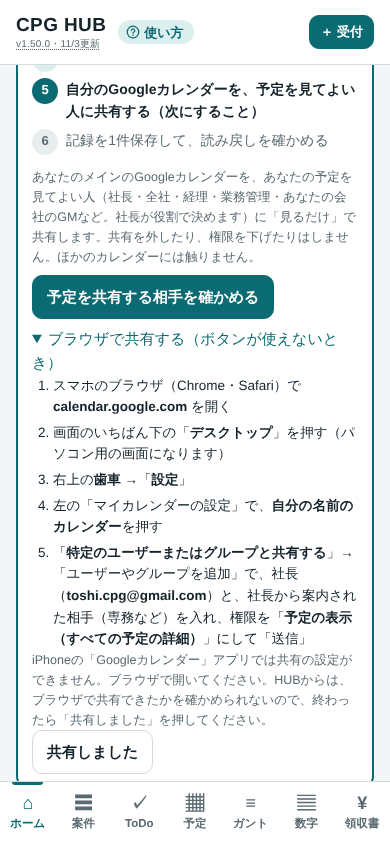
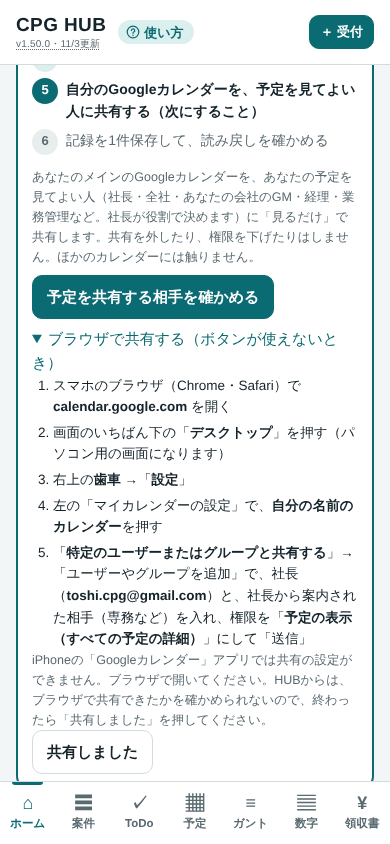
Limit the accounting and operations roles to their own companies and keep receipts out of the operations view
Claude-Session: https://claude.ai/code/session_017ZjmPTZswQcPFukXWs9n4w

Changed region(s): [[0.2769, 0.2156, 0.9231, 0.2773], [0.0923, 0.2464, 0.2462, 0.2773]]

diff --git a/index.html b/index.html
@@ -643,7 +643,7 @@ function corpKeepLoad(){
   try{const k=JSON.parse(localStorage.getItem(CKEEP)||"null");
     if(k)ui.receiptCacheState=k.who!==corpWho()?"account":Date.now()-k.at>CKEEP_DAYS*864e5?"expired":"invalid";
     if(!k||!Array.isArray(k.data)||k.who!==corpWho()||Date.now()-k.at>CKEEP_DAYS*864e5){if(k)corpKeepClear();return}
-    ui.receiptCacheState="loaded";if(!D().admin&&k.viewList)ui.viewList=k.viewList;const me=!D().admin&&(ui.viewList||[]).find(v=>eq(v.email,D().viewEmail));const data=D().admin?k.data:k.data.filter(x=>me&&x.s&&canSee(me,x.s));ui.corp={data,at:k.at,kept:true};roBuild(data)}catch(err){ui.receiptCacheState="invalid";}
+    ui.receiptCacheState="loaded";if(!D().admin&&k.viewList)ui.viewList=k.viewList;const me=!D().admin&&(ui.viewList||[]).find(v=>eq(v.email,D().viewEmail));const data=D().admin?k.data:k.data.filter(x=>me&&x.s&&canSee(me,x.s)).map(x=>noReceipts(me)?{...x,rc:[],receiptPrevious:null,receiptRead:{state:"hidden"}}:x);ui.corp={data,at:k.at,kept:true};roBuild(data)}catch(err){ui.receiptCacheState="invalid";}
 }
 const corpErr=err=>err.message==="notviewer"?"全社・GM・経理・業務管理の役割ではなくなっています。前回の内容は消しました":!D().admin&&(err.status===403||err.status===404)?"見る人用一覧を開けません（役割や共有が外れた可能性があります）。前回の内容は消しました":dMsg(err);
 const corpAtText=()=>md(ymd(new Date(ui.corp.at)))+' '+hm(new Date(ui.corp.at));
@@ -2802,7 +2802,7 @@ async function dataConnect(input){
   ui.sgDone="";try{const g=await sharedCheck(id);ui.sheetGuard=g.block?g:null}catch(err){ui.sheetGuard=null}
 }
 /* 社長の端末：社員ごとのシートを作って、その社員に「編集者」で共有する */
-const STAFF_COLS=["氏名","Gmail","シートID","シートのリンク","状態","追加日","最終同期","共有ID","会社","役割","GMの会社","指示箱ID"];
+const STAFF_COLS=["氏名","Gmail","シートID","シートのリンク","状態","追加日","最終同期","共有ID","会社","役割","GMの会社","指示箱ID","担当の会社"];
 /* a new spreadsheet's first tab is renamed (its default name depends on the account's language), then more tabs are added */
 async function sheetTabs(id,first,more){
   const v=await gReq(SHEETS+"/"+encodeURIComponent(id)+"?fields=sheets.properties");
@@ -2810,7 +2810,7 @@ async function sheetTabs(id,first,more){
 }
 async function adminWriteList(){
   if(!D().listId){const f=await driveCreate({name:"CPG HUB_社員一覧",mimeType:"application/vnd.google-apps.spreadsheet",parents:[D().folder]});await sheetTabs(f.id,"社員",[]);D().listId=f.id;save()}
-  return sheetWrite(D().listId,"社員",[STAFF_COLS,...D().staff.map(s=>[s.registeredName||s.name,s.email,s.sheetId,"https://docs.google.com/spreadsheets/d/"+s.sheetId+"/edit",s.removed?"共有を外した":"共有中",s.addedAt,s.lastSync||"",s.permId||"",s.company||"",s.role||"社員",s.gmCo||"",s.boxId||""])]);
+  return sheetWrite(D().listId,"社員",[STAFF_COLS,...D().staff.map(s=>[s.registeredName||s.name,s.email,s.sheetId,"https://docs.google.com/spreadsheets/d/"+s.sheetId+"/edit",s.removed?"共有を外した":"共有中",s.addedAt,s.lastSync||"",s.permId||"",s.company||"",s.role||"社員",s.gmCo||"",s.boxId||"",s.charge||""])]);
 }
 /* drive.file lets CPG HUB see the files it made, from any of the 社長's devices: a second device finds the folder 「CPG HUB データ」
    and 「CPG HUB_社員一覧」 made on the first one, instead of making new ones. The list sheet is the master copy of the staff list */
@@ -2836,31 +2836,38 @@ async function adminSync(log){
   const local=d.staff.filter(s=>!rows.some(r=>String(r["シートID"])===s.sheetId)); /* added here, but the list sheet was not written yet */
   const next=rows.map(r=>{const old=d.staff.find(s=>s.sheetId===String(r["シートID"]))||{};
     return {name:String(r["氏名"]),email:String(r["Gmail"]),sheetId:String(r["シートID"]),permId:String(r["共有ID"]||old.permId||""),addedAt:String(r["追加日"]),removed:r["状態"]==="共有を外した",lastSync:String(r["最終同期"]||old.lastSync||""),
-      company:String(r["会社"]||""),role:ROLES.includes(String(r["役割"]))?String(r["役割"]):"社員",gmCo:COMPANIES.includes(String(r["GMの会社"]))?String(r["GMの会社"]):"",boxId:String(r["指示箱ID"]||old.boxId||"")}}).concat(local);
+      company:String(r["会社"]||""),role:ROLES.includes(String(r["役割"]))?String(r["役割"]):"社員",gmCo:COMPANIES.includes(String(r["GMの会社"]))?String(r["GMの会社"]):"",boxId:String(r["指示箱ID"]||old.boxId||""),charge:chargeNorm(r["担当の会社"])}}).concat(local);
   d.staff=CPGNames.overlay(next,await namesRead(d.listId));save();found.list=true;found.n=d.staff.length;return found;
 }
 const staffDup=email=>D().staff.find(s=>!s.removed&&String(s.email).trim().toLowerCase()===String(email).trim().toLowerCase());
 /* 見る人（v1.31）：役割「全社」は全員の、「GM」はGMを務める会社の社員のシートを「閲覧者」で見る。
    見る範囲はGoogleの共有で守る（社長の管理端末で役割を保存したときに、閲覧者の共有を付けたり外したりする） */
 const ROLES=["社員","GM","全社","経理","業務管理"];
-/* v1.50.0 全社・経理・業務管理は、3社すべての社員の記録を見るだけで見られる。指示箱（タスクリクエストを出す）は全社とGMだけ */
-const WIDE_ROLES=["全社","経理","業務管理"];
-const wideRole=s=>!!s&&WIDE_ROLES.includes(s.role);
+/* v1.50.0 経理・業務管理は、担当の会社（人ごと。「担当の会社」列）に所属する社員の記録を見るだけで見られる。
+   GMと同じく、担当の会社だけに所属する人が対象（複数会社に所属する人は対象外）。GMと違い、その会社のGMも含む。全社の人は全員を見る。
+   指示箱（タスクリクエストを出す）は全社とGMだけ。業務管理は、HUBの画面では立替・領収書を見ない（経理は担当の会社の分を見る） */
 const coList=s=>String((s&&s.company)||"").split(/[,、，\s]+/).filter(x=>COMPANIES.includes(x));
-const isViewer=s=>!s.removed&&(wideRole(s)||s.role==="GM"&&!!s.gmCo);
+const CHARGE_ROLES=["経理","業務管理"];
+const chargeNorm=x=>COMPANIES.filter(co=>String(x||"").split(/[,、，・\s]+/).includes(co)).join(",");
+const chargeList=s=>chargeNorm(s&&s.charge).split(",").filter(Boolean);
+const chargeRole=s=>!!s&&CHARGE_ROLES.includes(s.role);
+const isViewer=s=>!s.removed&&(s.role==="全社"||s.role==="GM"&&!!s.gmCo||chargeRole(s)&&chargeList(s).length>0);
 /* GM対象は同じ単一会社の一般社員のみ。全社/GM役割・兼務管理者・複数会社は対象外。 */
 const gmTarget=(v,s)=>{const cs=String(s.company||"").trim().split(/[,、，\s]+/).filter(Boolean);return s.role==="社員"&&!s.gmCo&&cs.length===1&&COMPANIES.includes(cs[0])&&cs[0]===v.gmCo};
-const canSee=(v,s)=>isViewer(v)&&!s.removed&&v.sheetId!==s.sheetId&&(wideRole(v)||gmTarget(v,s));
+const chargeTarget=(v,s)=>{const cs=String(s.company||"").trim().split(/[,、，\s]+/).filter(Boolean);return cs.length===1&&COMPANIES.includes(cs[0])&&chargeList(v).includes(cs[0])};
+const canSee=(v,s)=>isViewer(v)&&!s.removed&&v.sheetId!==s.sheetId&&(v.role==="全社"||(chargeRole(v)?chargeTarget(v,s):gmTarget(v,s)));
 /* 指示箱を出せる（指示箱の編集者になる）のは全社とGM。経理・業務管理は見るだけ */
 const canOrder=(v,s)=>canSee(v,s)&&(v.role==="全社"||v.role==="GM");
-const roleLabel=s=>(s.role==="経理"||s.role==="業務管理"?s.role+"：3社すべて":s.role==="全社"?"全社":s.role==="GM"?"GM":"社員")+(s.gmCo?(s.role==="GM"?"（"+s.gmCo+"）":"・"+s.gmCo+" GM"):"");
+/* HUBの画面で、ほかの人の立替・領収書を見ない役割（業務管理） */
+const noReceipts=v=>!!v&&v.role==="業務管理";
+const roleLabel=s=>(chargeRole(s)?s.role+"："+(chargeList(s).length===COMPANIES.length?"3社すべて":chargeList(s).join("・")||"担当の会社なし"):s.role==="全社"?"全社":s.role==="GM"?"GM":"社員")+(s.gmCo?(s.role==="GM"?"（"+s.gmCo+"）":"・"+s.gmCo+" GM"):"");
 const gmLine=list=>COMPANIES.map(co=>{const g=list.filter(s=>!s.removed&&s.gmCo===co);return g.length?co+" GM："+g.map(x=>x.name).join("・"):""}).filter(Boolean).join("　");
-const VIEW_COLS=["氏名","Gmail","会社","役割","GMの会社","シートID","指示箱ID"];
+const VIEW_COLS=["氏名","Gmail","会社","役割","GMの会社","シートID","指示箱ID","担当の会社"];
 const eq=(a,b)=>String(a||"").toLowerCase()===String(b||"").toLowerCase();
 async function shareWriteList(){
  shareLocalCheck();await adminWriteList();shareSave();
  const back=(await sheetRead(D().listId,["社員"]))["社員"]||[];
- const expected=[STAFF_COLS,...D().staff.map(s=>[s.registeredName||s.name,s.email,s.sheetId,sheetLink(s.sheetId),s.removed?"共有を外した":"共有中",s.addedAt,s.lastSync||"",s.permId||"",s.company||"",s.role||"社員",s.gmCo||"",s.boxId||""])];
+ const expected=[STAFF_COLS,...D().staff.map(s=>[s.registeredName||s.name,s.email,s.sheetId,sheetLink(s.sheetId),s.removed?"共有を外した":"共有中",s.addedAt,s.lastSync||"",s.permId||"",s.company||"",s.role||"社員",s.gmCo||"",s.boxId||"",s.charge||""])];
  const norm=rows=>JSON.stringify(rows.map(r=>Array.from({length:STAFF_COLS.length},(_,i)=>String(r[i]||""))));
  if(norm(back)!==norm(expected))throw Error("社員一覧の保存後確認ができません。成功扱いにせず停止しました。");
 }
@@ -2929,7 +2936,7 @@ async function adminShareSync(log,staff=D().staff){
  if(new Set(specs.map(x=>x.id)).size!==specs.length)throw Error("共有先IDが重複しています。変更を止めました。");
  for(const x of specs)x.permissions=await permList(x.id);
  const history=await shareHistory(list),plan=CPGShares.plan(specs,history,list);
- const roleChanges=staff.filter(s=>{const old=d.staff.find(x=>x.sheetId===s.sheetId);return old&&(old.role!==s.role||old.gmCo!==s.gmCo||old.company!==s.company||old.removed!==s.removed)}).map(s=>{const old=d.staff.find(x=>x.sheetId===s.sheetId);return "役割："+s.name+"（"+s.email+"） "+roleLabel(old)+" → "+(s.removed?"役割を外す":roleLabel(s))+"／所属会社："+s.company});
+ const roleChanges=staff.filter(s=>{const old=d.staff.find(x=>x.sheetId===s.sheetId);return old&&(old.role!==s.role||old.gmCo!==s.gmCo||(old.charge||"")!==(s.charge||"")||old.company!==s.company||old.removed!==s.removed)}).map(s=>{const old=d.staff.find(x=>x.sheetId===s.sheetId);return "役割："+s.name+"（"+s.email+"） "+roleLabel(old)+" → "+(s.removed?"役割を外す":roleLabel(s))+"／所属会社："+s.company});
  const names={grant:"付与",revoke:"解除",keep:"維持",review:"要確認・残す"};
  if(!await shareConfirm("共有変更の最終確認",roleChanges.concat(plan.map(x=>names[x.action]+"｜"+x.label+"（"+x.file+"）→ "+x.email+"："+x.before+" → "+x.after+"／"+x.reason)),"社員一覧に「共有管理履歴」（付与先Gmail・ファイルID・権限・操作日時）を追記します。旧共有の解除は保証しません。役割の保存は処理後です。"))throw Error("中止しました。共有は変更していません。");
  const guard=async()=>{shareLocalCheck();if(d!==D()||d.listId!==list||G.token!==token||JSON.stringify((await sheetRead(list,["社員"]))["社員"]||[])!==source)throw Error("社員一覧・接続先が変わりました。再確認してください。");};
@@ -2941,7 +2948,7 @@ async function adminShareSync(log,staff=D().staff){
  if(shareAbort)throw Error("途中で中止しました。実行済みの共有は戻しません。役割は保存していません。");
  for(const x of plan.filter(x=>x.action==="review"))log("要確認（共有を残しました）："+x.label+" → "+x.email+"／"+x.reason,false);
  await guard();
- if(d.viewListId)await sheetWrite(d.viewListId,"一覧",[VIEW_COLS,...staff.filter(s=>!s.removed).map(s=>[s.name,s.email,s.company||"",s.role||"社員",s.gmCo||"",s.sheetId,s.boxId||""])]);
+ if(d.viewListId)await sheetWrite(d.viewListId,"一覧",[VIEW_COLS,...staff.filter(s=>!s.removed).map(s=>[s.name,s.email,s.company||"",s.role||"社員",s.gmCo||"",s.sheetId,s.boxId||"",s.charge||""])]);
  for(const s of staff)if(s.boxId&&!s.removed)await noticeWrite(s);
  if(d.viewListId)await namesCopyConfirmed(list,d.viewListId);
  /* v1.50.0 役割が変わったら、各社員の「予定の共有先」も書き直す（共有そのものは、本人が自分の端末でボタンを押して足す） */
@@ -2950,7 +2957,7 @@ async function adminShareSync(log,staff=D().staff){
 }
 async function adminShareOperation(run){if(shareRunning||ui.gsync?.busy||ui.gbusy||ui.oBusy)throw Error("共有・同期の処理中です。終わるまでお待ちください。");shareRunning=true;shareAbort=false;try{shareLocalCheck();await gAuthorize(true);if(!eq(await myEmail(),ADMIN_ACCOUNT))throw Error("社長の管理アカウントで確認してください。");return await run()}finally{shareRunning=false}}
 /* ===== v1.50.0 予定の共有：本人のメインのカレンダーを、その人の予定を見てよい人に「見るだけ」で共有する。
-   共有先は社長の端末で社員一覧の役割から決め（社長・全社・経理・業務管理・その人を見られるGM。canSee と同じ判定）、各社員の記録シートの「予定の共有先」タブに書く。
+   共有先は社長の端末で社員一覧の役割から決め（社長・全社・その人を見られるGM・担当の会社の経理と業務管理。canSee と同じ判定）、各社員の記録シートの「予定の共有先」タブに書く。
    社員の端末はそのタブを読むだけ。共有は足すだけで、外したり権限を下げたりしない。本人のメイン以外のカレンダーには触らない。
    HUBで共有した相手は本人の記録シートの「予定の共有の記録」に残し、今の共有先にない人は社長の画面で要確認にする（外すのは社長が確かめてから） */
 const ACL_SCOPE="https://www.googleapis.com/auth/calendar.acls";
@@ -3023,7 +3030,7 @@ function calShareSettings(){if(calShareHidden()||obActive())return "";return '<s
 function calShareBox(){
  if(calShareHidden())return "";
  const c=ui.cs||{},last=D().calShare,busy=c.busy?' disabled':'';
- const head='<p class="note" style="margin:0">あなたのメインのGoogleカレンダーを、あなたの予定を見てよい人（社長・全社・経理・業務管理・あなたの会社のGMなど。社長が役割で決めます）に「見るだけ」で共有します。共有を外したり、権限を下げたりはしません。ほかのカレンダーには触りません。</p>';
+ const head='<p class="note" style="margin:0">あなたのメインのGoogleカレンダーを、あなたの予定を見てよい人（社長・全社・あなたの会社のGM・経理・業務管理など。社長が役割で決めます）に「見るだけ」で共有します。共有を外したり、権限を下げたりはしません。ほかのカレンダーには触りません。</p>';
  const lastL=last&&last.at?'<p class="note" style="margin:0">前回（この端末）：'+h(md(String(last.at).slice(0,10)))+' '+h(String(last.at).slice(11,16))+'　'+h((last.results||[]).map(x=>x.name+"："+x.result).join("、"))+'</p>':'';
  let body;
  if(c.stage==="confirm")body=c.targets.length?'<p style="margin:0"><b>次の人に、あなたの予定を共有します。</b>よければ「この人たちに共有する」を押してください（Googleから、カレンダーの共有の許可を求められます）。</p><ul class="cs-list">'+c.targets.map(t=>'<li><b>'+h(t.name)+'</b>（'+h(t.role)+'）<br><span class="note">'+h(t.email)+'</span>　見るだけ</li>').join("")+'</ul><div class="row"><button class="btn pri" type="button" data-act="csrun"'+busy+'>この人たちに共有する</button><button class="btn" type="button" data-act="cscancel"'+busy+'>やめる</button></div>':
@@ -3146,7 +3153,7 @@ async function adminNameSave(sheetId,name,log=()=>{}){return adminShareOperation
 /* 見る人の端末：「CPG HUB_見る人用一覧」を読み、自分が全社かGMかを確かめる */
 async function viewerList(){
   const rows=objRows((await sheetRead(D().viewListId,["一覧"]))["一覧"]);
-  const list=rows.filter(r=>r["シートID"]).map(r=>({name:String(r["氏名"]),email:String(r["Gmail"]),company:String(r["会社"]||""),role:String(r["役割"]||"社員"),gmCo:String(r["GMの会社"]||""),sheetId:String(r["シートID"]),boxId:String(r["指示箱ID"]||""),removed:false}));
+  const list=rows.filter(r=>r["シートID"]).map(r=>({name:String(r["氏名"]),email:String(r["Gmail"]),company:String(r["会社"]||""),role:String(r["役割"]||"社員"),gmCo:String(r["GMの会社"]||""),sheetId:String(r["シートID"]),boxId:String(r["指示箱ID"]||""),charge:chargeNorm(r["担当の会社"]),removed:false}));
   /* v1.49.8 正規氏名の履歴が読めなくても、一覧そのものは使う（読めないと全社・GMの端末でほかの社員が選べなくなるため）。名前は一覧の氏名のまま */
   let names=[];ui.viewListWarn="";try{names=await namesRead(D().viewListId)}catch(err){if(err.message==="signin")throw err;ui.viewListWarn="社員の正式な氏名の履歴を読めなかったため、一覧の氏名で出しています（"+(err.message||dMsg(err))+"）";}
   return CPGNames.overlay(list,names);
@@ -3167,7 +3174,7 @@ async function adminAdd(name,email,log,rv,swapId){return adminShareOperation(asy
  if(!await shareConfirm("社員の記録用ファイルを作る",[name+"／"+email+" の記録シートを新規作成。付与予定：本人writer、役割に応じた閲覧共有。"],"まだ共有しません。ファイル作成後にID・全付与先を確認します。中止しても作成済みファイルは残します。"))throw Error("中止しました。");
  shareLocalCheck();if(!D().folder){const f=await driveCreate({name:"CPG HUB データ",mimeType:"application/vnd.google-apps.folder"});D().folder=f.id;shareSave()}
  const f=await driveCreate({name:"CPG HUB_"+name,mimeType:"application/vnd.google-apps.spreadsheet",parents:[D().folder]});
- const s={name,email,sheetId:f.id,permId:"",addedAt:todayS(),removed:false,lastSync:"",company:"",role:"社員",gmCo:""};D().staff.push(s);shareSave();
+ const s={name,email,sheetId:f.id,permId:"",addedAt:todayS(),removed:false,lastSync:"",company:"",role:"社員",gmCo:"",charge:""};D().staff.push(s);shareSave();
  await sheetTabs(f.id,"案件",["入金","立替","情報"]);await sheetWrite(f.id,"情報",[["項目","値"],["氏名",name],["管理者",ADMIN_ACCOUNT],["作成日",todayS()]]);await shareWriteList();
  const staff=structuredClone(D().staff),next=staff.find(x=>x.sheetId===f.id);Object.assign(next,rv||{});const prev=swapId&&staff.find(x=>x.sheetId===swapId);if(prev){if(prev.role==="GM")prev.role="社員";prev.gmCo=""}
  const result=await adminShareSync(log,staff);D().staff=staff;shareSave();await shareWriteList();log(name+"さんの登録を確認しました。要確認の共有 "+result.review+"件。案内メールは自動送信しません。");return result;
@@ -3187,12 +3194,14 @@ async function corpLoad(){
   for(const s of list){
     try{/* a sheet synced from before v1.29 has no 「ToDo」 tab, and reading a missing tab fails the whole read */
       const tabs=await sheetTabNames(s.sheetId), hasTodo=tabs.includes("ToDo"), hasOrd=tabs.includes("指示"), hasRep=tabs.includes(REPORT_TAB), hasCal=!viewer&&tabs.includes(CALREC_TAB);
-      const v=await sheetRead(s.sheetId,["案件","入金","立替","情報"].concat(hasTodo?["ToDo"]:[],hasOrd?["指示"]:[],hasRep?[REPORT_TAB]:[],hasCal?[CALREC_TAB]:[]));
+      /* v1.50.0 業務管理の端末は、ほかの人の立替・領収書を読まない */
+      const noRc=viewer&&noReceipts(me)&&s.sheetId!==me.sheetId;
+      const v=await sheetRead(s.sheetId,["案件","入金"].concat(noRc?[]:["立替"],["情報"],hasTodo?["ToDo"]:[],hasOrd?["指示"]:[],hasRep?[REPORT_TAB]:[],hasCal?[CALREC_TAB]:[]));
       /* 指示箱：読めるのは社長（持ち主）と、その社員に出せる人（編集者）。読めなければ null */
       let box=null;if(s.boxId&&(!viewer||s.sheetId===me.sheetId||canOrder(me,s))){try{box=objRows((await sheetRead(s.boxId,[BOX_TAB]))[BOX_TAB]).filter(o=>o["指示ID"])}catch(err){if(err.message==="signin")throw err}}
       const info=Object.fromEntries((v["情報"]||[]).slice(1).map(r=>[r[0],r[1]]));
       s.lastSync=String(info["最終同期"]||"");
-      out.push({s,ok:true,calRec:hasCal?objRows(v[CALREC_TAB]).map(r=>String(r["Gmail"]||"").trim()).filter(mailOK):null,receiptRead:{...(globalThis.WorkHubSharedReceipts?WorkHubSharedReceipts.parseSheet(v["立替"]):{state:"invalid",message:"領収書の表示機能を読み込めません。"}),at:Date.now(),version:String(info["版"]||"")},cases:objRows(v["案件"]),rc:objRows(v["立替"]),todo:hasTodo?objRows(v["ToDo"]):null,orders:hasOrd?objRows(v["指示"]).filter(o=>o["指示ID"]):[],box,reports:hasRep?objRows(v[REPORT_TAB]).filter(r=>r["指示ID"]):[]})}
+      out.push({s,ok:true,calRec:hasCal?objRows(v[CALREC_TAB]).map(r=>String(r["Gmail"]||"").trim()).filter(mailOK):null,receiptRead:noRc?{state:"hidden",at:Date.now(),version:String(info["版"]||"")}:{...(globalThis.WorkHubSharedReceipts?WorkHubSharedReceipts.parseSheet(v["立替"]):{state:"invalid",message:"領収書の表示機能を読み込めません。"}),at:Date.now(),version:String(info["版"]||"")},cases:objRows(v["案件"]),rc:noRc?[]:objRows(v["立替"]),todo:hasTodo?objRows(v["ToDo"]):null,orders:hasOrd?objRows(v["指示"]).filter(o=>o["指示ID"]):[],box,reports:hasRep?objRows(v[REPORT_TAB]).filter(r=>r["指示ID"]):[]})}
     catch(err){if(err.message==="signin")throw err;out.push({s,ok:false,accessDenied:err.status===403||err.status===404,msg:dMsg(err)})}
   }
   save();return out;
@@ -3294,13 +3303,15 @@ function roleForm(p,s){
   return '<div class="form"><div class="f full"><span>会社（複数可）</span><div class="row">'+COMPANIES.map(co=>'<label class="row"><input type="checkbox" id="'+p+'_co_'+co+'"'+(cs.includes(co)?' checked':'')+'> '+co+'</label>').join("")+'</div></div>'+
     '<label class="f">役割<select id="'+p+'_role">'+ROLES.map(r=>'<option'+((s.role||"社員")===r?' selected':'')+'>'+r+'</option>').join("")+'</select></label>'+
     '<label class="f">GMを務める会社<select id="'+p+'_gm"><option value="">なし</option>'+COMPANIES.map(co=>'<option'+(s.gmCo===co?' selected':'')+'>'+co+'</option>').join("")+'</select></label>'+
-    '<p class="note full" style="margin:0">全社：全員の記録を見る（例：専務）。GM：同じ1社だけに所属する一般社員の記録を見る（複数会社・全社・GMは対象外）。全社の人がある会社のGMを兼ねるときは、役割を「全社」にしてGMの会社を選びます。経理・業務管理：3社すべての社員の記録を、見るだけで見る（タスクリクエストは出せません。GMの会社は選べません）。どの人も、予定は、その人の予定を見てよい人に共有してもらいます。</p></div>';
+    '<div class="f full"><span>担当の会社（経理・業務管理のとき）</span><div class="row">'+COMPANIES.map(co=>'<label class="row"><input type="checkbox" id="'+p+'_ch_'+co+'"'+(chargeList(s).includes(co)?' checked':'')+'> '+co+'</label>').join("")+'</div></div>'+
+    '<p class="note full" style="margin:0">全社：全員の記録を見る（例：専務）。GM：同じ1社だけに所属する一般社員の記録を見る（複数会社・全社・GMは対象外）。全社の人がある会社のGMを兼ねるときは、役割を「全社」にしてGMの会社を選びます。経理・業務管理：「担当の会社」に所属する社員の記録を、見るだけで見る（その会社のGMも含みます。複数の会社に所属する人は対象外。タスクリクエストは出せません。業務管理は、立替・領収書は見ません）。どの人も、予定は、その人の予定を見てよい人に共有してもらいます。</p></div>';
 }
 function roleVal(p){
   const role=val(p+"_role")||"社員", gmCo=role==="GM"||role==="全社"?val(p+"_gm"):"";
   const cs=COMPANIES.filter(co=>{const el=document.getElementById(p+"_co_"+co);return el&&el.checked});
   if(gmCo&&!cs.includes(gmCo))cs.push(gmCo);
-  return {company:COMPANIES.filter(co=>cs.includes(co)).join(","),role,gmCo};
+  const charge=CHARGE_ROLES.includes(role)?COMPANIES.filter(co=>{const el=document.getElementById(p+"_ch_"+co);return el&&el.checked}).join(","):"";
+  return {company:COMPANIES.filter(co=>cs.includes(co)).join(","),role,gmCo,charge};
 }
 const dMsgList=()=>{const m=ui.dmsg;return m?'<ul class="gres" role="status">'+m.map(x=>'<li class="'+(x.ok===false?'ng':x.ok==="warn"?'warn':'ok')+'">'+(x.ok===false?'× ':x.ok==="warn"?'！ ':'✓ ')+h(x.text)+'</li>').join("")+'</ul>':''};
 /* v1.49.6 社員一覧の「最終同期」：社員一覧シートの列（古い値が残ることがある）ではなく、社員の記録シートの「情報」タブを読み込んだ値を出す。
@@ -3344,11 +3355,11 @@ function dSettings(){
       '<div class="row"><button class="btn sm" type="button" data-act="dreload"'+(ui.dbusy?' disabled':'')+'>一覧を読み直す</button><span class="note">ほかの端末で追加・共有を外した社員を反映します</span></div>'+
       (ui.dAsk?'<div class="ro" role="alert" style="display:flex;flex-direction:column;gap:8px"><span>'+h(ui.dAsk.text)+'</span><div class="row"><button class="btn danger" type="button" data-act="daskyes">入れ替える</button><button class="btn" type="button" data-act="daskno">やめる</button></div></div>':'')+
       '<div class="form"><label class="f">氏名<input type="text" id="d_name" placeholder="例：山田"></label><label class="f">Gmail<input type="email" id="d_mail" inputmode="email" autocomplete="off" placeholder="例：yamada@gmail.com"></label></div>'+
-      roleForm("da",{company:"",role:"社員",gmCo:""})+
+      roleForm("da",{company:"",role:"社員",gmCo:"",charge:""})+
       '<div class="row"><button class="btn pri" type="button" data-act="dadd">社員を追加</button></div>'+
       '<p class="note" style="margin:0">追加後、共有一覧を確認してから、その人のGmailに「編集者」で共有します。案内メールは自動送信しません。Google Cloud の「対象」で、その人をテストユーザーに追加しておいてください。</p>'+
-      '<p class="note" style="margin:0">役割が「全社」「経理」「業務管理」の人は全員の、「GM」の人は同じ1社だけに所属する一般社員の記録を、見るだけで見られます（閲覧者で共有します）。見る人には、下のリンクを送って、CPG HUB の「会社の動きを見る（管理者用）」に貼り付けてもらってください。</p>'+
-      '<p class="note" style="margin:0">予定の共有先（その人の予定を見てよい人：社長・全社・経理・業務管理・その人を見られるGM）は、会社・役割を保存すると、各社員の記録シートに書きます。社員が自分の端末の「予定の共有」を押すと、足りない相手だけに「見るだけ」で共有します。</p><div class="row"><button class="btn sm" type="button" data-act="dcaltargets"'+(ui.dbusy?' disabled':'')+'>予定の共有先を書く</button></div>'+
+      '<p class="note" style="margin:0">役割が「全社」の人は全員の、「GM」の人は同じ1社だけに所属する一般社員の、「経理」「業務管理」の人は担当の会社に所属する社員の記録を、見るだけで見られます（閲覧者で共有します）。見る人には、下のリンクを送って、CPG HUB の「会社の動きを見る（管理者用）」に貼り付けてもらってください。</p>'+
+      '<p class="note" style="margin:0">予定の共有先（その人の予定を見てよい人：社長・全社・その人を見られるGM・担当の会社の経理と業務管理）は、会社・役割を保存すると、各社員の記録シートに書きます。社員が自分の端末の「予定の共有」を押すと、足りない相手だけに「見るだけ」で共有します。</p><div class="row"><button class="btn sm" type="button" data-act="dcaltargets"'+(ui.dbusy?' disabled':'')+'>予定の共有先を書く</button></div>'+
       (d.viewListId?'<label class="f">見る人用のリンク<input type="text" id="d_vlink" readonly value="https://docs.google.com/spreadsheets/d/'+h(d.viewListId)+'/edit"></label><div class="row"><button class="btn sm" type="button" data-act="dvcopy">リンクをコピー</button></div>':''))+'</div>':'';
   const view=d.admin?'':'<div class="panel"><h3>会社の動きを見る（管理者用）</h3>'+
     (d.viewListId?'<p style="margin:0">つないでいます（'+h(d.viewEmail||"")+'）。ホームの「会社の動き」で見られます。</p><div class="row"><button class="btn sm" type="button" data-act="dvunlink">つなぐのをやめる</button></div>':
@@ -3567,6 +3578,7 @@ document.addEventListener("click",e=>{
   if(a==="droleno"){ui.dRole=null;render();return}
   if(a==="droledo"){const s=D().staff[ui.dRole];if(!s||ui.dbusy)return;const v=roleVal("dr");
     if(v.role==="GM"&&!v.gmCo){ui.dview="";ui.dmsg=[{ok:false,text:"GMを務める会社を選んでください"}];render();return}
+    if(CHARGE_ROLES.includes(v.role)&&!v.charge){ui.dview="";ui.dmsg=[{ok:false,text:"担当の会社を選んでください"}];render();return}
     const run=swapId=>{const log=[];ui.dRole=null;ui.dbusy=true;ui.dview="";ui.dmsg=log;render();
       adminRoleSave(s.sheetId,v,swapId,(text,ok)=>{log.push({ok:ok===false?"warn":true,text});render()}).catch(err=>{log.push({ok:false,text:"途中で止まりました："+dMsg(err)})}).finally(()=>{ui.dbusy=false;render()})};
     const other=v.gmCo&&D().staff.find(x=>!x.removed&&x.sheetId!==s.sheetId&&x.gmCo===v.gmCo);
@@ -3582,6 +3594,7 @@ document.addEventListener("click",e=>{
     if(!name||!/^[^\s@]+@[^\s@]+\.[^\s@]+$/.test(mail)){ui.dmsg=[{ok:false,text:"氏名とGmailを入れてください"}];render();return}
     const dup=staffDup(mail);if(dup){ui.dview="";ui.dmsg=[{ok:false,text:dup.name+"さんはすでに追加されています（"+dup.email+"）"}];render();return}
     const rv=roleVal("da");if(rv.role==="GM"&&!rv.gmCo){ui.dview="";ui.dmsg=[{ok:false,text:"GMを務める会社を選んでください"}];render();return}
+    if(CHARGE_ROLES.includes(rv.role)&&!rv.charge){ui.dview="";ui.dmsg=[{ok:false,text:"担当の会社を選んでください"}];render();return}
     const run=swapId=>{const log=[];ui.dview="";ui.dmsg=log;const add=(text,ok)=>{log.push({ok:ok===false?"warn":true,text});render()};
       adminAdd(name,mail,add,rv,swapId).catch(err=>{log.push({ok:false,text:err.message==="dup"?err.who+"さんはすでに追加されています（ほかの端末で追加済み）":"途中で止まりました："+dMsg(err)});render()})};
     const other=rv.gmCo&&D().staff.find(x=>!x.removed&&x.gmCo===rv.gmCo);

diff --git a/manual-admin.html b/manual-admin.html
@@ -133,7 +133,7 @@ code{overflow-wrap:anywhere;word-break:break-all}
   <p class="meta">「管理（社長用）」の社員一覧の「最終同期」は、社員の記録を読み込んだときに、その人の記録シートから読んだ日時です。まだ読み込んでいないときは「未読込」と出ます。最新にするときは「会社の動き」で <span class="btn">社員の記録を読み込む</span>（または「Googleとまとめて同期」）を押してください。</p>
   <h3 id="calshare">予定の共有（社員のGoogleカレンダー）</h3>
   <ol>
-    <li>共有先（その人の予定を見てよい人）は、社長の端末で、社員一覧の役割から決めます：<b>社長</b>、<b>全社</b>・<b>経理</b>・<b>業務管理</b>の人（全員の分）、<b>GM</b>（その人を見られるGM。同じ1社だけに所属する一般社員）。本人と、共有を外した人は入りません</li>
+    <li>共有先（その人の予定を見てよい人）は、社長の端末で、社員一覧の役割から決めます：<b>社長</b>、<b>全社</b>の人（全員の分）、<b>GM</b>（その人を見られるGM。同じ1社だけに所属する一般社員）、<b>経理</b>・<b>業務管理</b>（その人の会社を担当する人。担当の会社だけに所属する人の分）。本人と、共有を外した人は入りません</li>
     <li>社員を追加したときと、会社・役割を保存したときに、各社員の記録シートの「予定の共有先」タブに書きます。書き直したいときは、「管理（社長用）」の <span class="btn">予定の共有先を書く</span> を押します</li>
     <li>社員は、自分の端末で「予定の共有」を押します。共有する相手を確かめてから、メインのGoogleカレンダーを「見るだけ」で共有します。足りない相手だけ足し、外したり、権限を下げたりはしません。共有した相手には、Googleからお知らせのメールが届きます</li>
     <li>「管理（社長用）」の社員一覧に、<b>予定の共有</b>の状況が出ます（「会社の動き」で <span class="btn">社員の記録を読み込む</span> を押したあと）：<b>済</b>／<b>まだ：○○</b>（本人がもう一度押すと足されます）／<b>まだHUBで共有していません</b>。役割が変わって、今は共有先ではない人に共有が残っているときは <b>要確認</b> と出ます。HUBは自動では外しません。外すかは確かめてから、本人のGoogleカレンダーの設定で外してもらいます</li>
@@ -150,8 +150,9 @@ code{overflow-wrap:anywhere;word-break:break-all}
   <h3>会社・役割（全社・GM・経理・業務管理）を決める</h3>
   <ol>
     <li><b>数字</b> → 「管理（社長用）」で、社員を追加するときに「会社（複数可）」「役割」「GMを務める会社」を選ぶ。あとから変えるときは、その人の <span class="btn">会社・役割</span> → 選んで <span class="btn">保存する</span></li>
-    <li>役割：<b>社員</b>＝自分の記録だけ。<b>GM</b>＝同じ1社だけに所属する一般社員の記録を見る（複数会社・全社・GMは除く）。<b>全社</b>＝全員の記録を見る（例：専務）。全社の人がある会社のGMも務めるときは、役割を「全社」にして「GMを務める会社」を選びます（見る範囲は全社が優先です）。<b>経理</b>・<b>業務管理</b>＝3社すべての社員の記録を、見るだけで見る（表示は「経理：3社すべて」「業務管理：3社すべて」。タスクリクエストは出せません。GMの会社は選べません）。領収書の見え方は、今までどおりです</li>
-    <li><b>経理・業務管理を初めて入れる前に、社長の端末（スマホ・PCの両方）を最新の版にしてください。</b>古い版の端末は「経理」「業務管理」を知らないので、その端末で社員一覧を読み込むと「社員」として扱い、そのまま会社・役割を保存すると役割が「社員」に戻り、見る人の共有も外れます。全社・GMの人の端末も、最新の版にしてもらってください</li>
+    <li>役割：<b>社員</b>＝自分の記録だけ。<b>GM</b>＝同じ1社だけに所属する一般社員の記録を見る（複数会社・全社・GMは除く）。<b>全社</b>＝全員の記録を見る（例：専務）。全社の人がある会社のGMも務めるときは、役割を「全社」にして「GMを務める会社」を選びます（見る範囲は全社が優先です）。<b>経理</b>・<b>業務管理</b>＝「担当の会社」（人ごとに選ぶ。例：経理：CP・CPY）に所属する社員の記録（案件・ToDo・予定など）を、見るだけで見る。その会社のGMも含みます。よその会社の社員と、複数の会社に所属する人は見ません。タスクリクエストは出せません。表示は「経理：CP・CPY」「業務管理：3社すべて」の形です</li>
+    <li>領収書：<b>経理</b>は、担当の会社の社員の立替・領収書を見られます。<b>業務管理</b>は、ほかの人の立替・領収書（立替・精算書・法人カード）を見ません。一般社員も、ほかの人の領収書は見ません（今までどおり）。<b>ただし、見る人には記録シート全体を「閲覧者」で共有しているので、Googleスプレッドシートを直接開くと「立替」のタブも見えます。</b>HUBの画面に出さないだけです</li>
+    <li><b>経理・業務管理を初めて入れる前に、社長の端末（スマホ・PCの両方）を最新の版にしてください。</b>社員一覧と見る人用一覧に、新しい列「担当の会社」を足しました。古い版の端末は「経理」「業務管理」と「担当の会社」を知らないので、その端末で社員を追加したり会社・役割を保存したりすると、「担当の会社」の列が消え、役割が「社員」に戻り、見る人の共有も外れます。全社・GMの人の端末も、最新の版にしてもらってください。手順：①社長の端末をすべて最新にする（画面の上の版が、このマニュアルの先頭の版と同じか確かめる）②全社・GMの人の端末も最新にしてもらう ③そのあとで、経理・業務管理の人の役割と担当の会社を保存する</li>
     <li>GMは各社1人です。同じ会社に2人目を選ぶと「○○のGMはすでに○○さんです。入れ替えますか？」と出ます。<span class="btn">入れ替える</span> を押すと、前の人はGMから外れ（役割がGMなら「社員」に戻ります）、共有変更の一覧を確認します。旧共有・帰属不明の共有は残して要確認にします</li>
     <li>保存操作ではまず共有一覧を確認し、確認後に見る人へ、見てよい社員のシートを <b>閲覧者</b> で共有します。役割を外したり会社を変えたりすると、当機能の付与記録を確認できた共有だけ解除します。旧共有などは残して要確認にします（役割変更では本人の編集者の共有は維持します）</li>
     <li>見る人がいると「見る人用のリンク」が出ます。<span class="btn">リンクをコピー</span> して、見る人に送ってください（LINEなど）</li>
@@ -182,7 +183,7 @@ code{overflow-wrap:anywhere;word-break:break-all}
 
 <section id="viewer">
   <h2>会社の動きを見る人用（全社・GM・経理・業務管理）</h2>
-  <p class="meta">社長から役割を「全社」「GM」「経理」「業務管理」にしてもらった人だけが使えます。社員の記録は見るだけで、直すことはできません。全社・GMの人は<b>タスクリクエストを出せます</b>（下の「GM・全社からタスクリクエストを出す」）。経理・業務管理の人は出せません。</p>
+  <p class="meta">社長から役割を「全社」「GM」「経理」「業務管理」にしてもらった人だけが使えます。社員の記録は見るだけで、直すことはできません。経理・業務管理の人が見られるのは、担当の会社の社員だけです。業務管理の人には、ほかの人の立替・領収書は出ません。全社・GMの人は<b>タスクリクエストを出せます</b>（下の「GM・全社からタスクリクエストを出す」）。経理・業務管理の人は出せません。</p>
   <ol>
     <li><b>先に、本人の記録シートをつないで最初の同期をする。</b>新しい端末では、ホームの「初期設定」で役割を「GM・全社」にし、Googleにログイン → 本人の記録シートにつなぐ → 氏名・会社を確かめる → 最初の同期 → カレンダーの共有 → 見る人用一覧をつなぐ の順に進めます。最初の同期より前に見る人用一覧はつなげません（逆の順番だと、会社・人の選択肢から自分が外れるため）</li>
     <li>社長から届いた「見る人用のリンク」を<b>コピー</b>する</li>

diff --git a/manual.html b/manual.html
@@ -125,7 +125,7 @@ th{color:var(--muted);font-size:13px}
     <li>見る人用一覧をつなぐ（社長から届いた「見る人用のリンク」を貼り付ける）。<b>必ず「最初の同期」のあとにします。</b>先につなぐと、会社・人の選択肢から自分が外れます</li>
   </ol>
   <h3 id="calshare">自分のGoogleカレンダーを、予定を見てよい人に共有する</h3>
-  <p>あなたの予定を見てよい人（社長・全社・経理・業務管理・あなたの会社のGMなど）が、あなたの予定を見られるようにします。だれに共有するかは、社長が役割で決めます。共有は「見るだけ」です。HUBは共有を足すだけで、外したり、権限を下げたりはしません。メインのカレンダーのほかには触りません。</p>
+  <p>あなたの予定を見てよい人（社長・全社・あなたの会社のGM・あなたの会社を担当する経理と業務管理など）が、あなたの予定を見られるようにします。だれに共有するかは、社長が役割で決めます。共有は「見るだけ」です。HUBは共有を足すだけで、外したり、権限を下げたりはしません。メインのカレンダーのほかには触りません。</p>
   <ol>
     <li>初期設定の <span class="btn">予定を共有する相手を確かめる</span> を押す（初期設定が終わった端末では、「数字」の <b>予定の共有（自分のGoogleカレンダー）</b>）</li>
     <li>共有する相手（名前・Gmail・見るだけ）が出ます。確かめて <span class="btn">この人たちに共有する</span> を押す</li>
@@ -448,7 +448,7 @@ th{color:var(--muted);font-size:13px}
   <h2>改訂履歴</h2>
   <div class="card"><table class="hist">
     <tr><th>版</th><th>できるようになったこと</th></tr>
-    <tr><td>v1.50.0<br><span class="meta">11/3</span></td><td>「予定の共有」のボタンを足しました。押すと、あなたの予定を見てよい人（社長・全社・経理・業務管理・あなたの会社のGMなど）を確かめてから、メインのGoogleカレンダーを「見るだけ」で共有します（足りない相手だけ。外したり、権限を下げたりはしません）。初期設定では「最初の同期」のあとにしました。管理者向け：役割に「経理」「業務管理」を足しました（3社すべての社員の記録を見るだけで見られます）。社員一覧に、予定の共有の状況（済・まだ・要確認）を出します。</td></tr>
+    <tr><td>v1.50.0<br><span class="meta">11/3</span></td><td>「予定の共有」のボタンを足しました。押すと、あなたの予定を見てよい人（社長・全社・あなたの会社のGM・経理・業務管理など）を確かめてから、メインのGoogleカレンダーを「見るだけ」で共有します（足りない相手だけ。外したり、権限を下げたりはしません）。初期設定では「最初の同期」のあとにしました。管理者向け：役割に「経理」「業務管理」を足しました（人ごとに「担当の会社」を選び、その会社の社員の記録を見るだけで見られます。業務管理は、ほかの人の立替・領収書は見ません）。社員一覧に、予定の共有の状況（済・まだ・要確認）を出します。</td></tr>
     <tr><td>v1.49.8<br><span class="meta">11/3</span></td><td>初期設定の最初に「自分のGoogleカレンダーを社長と専務に共有する」を足しました。iPhoneでホーム画面に入れるやり方を書きました。全社・GMの端末で見る人用一覧が読めていないときは、仕事用カレンダーの対応設定と「会社の動き」に案内を出します。管理者向け：「管理（社長用）」の社員一覧で、ボタン（正規氏名・会社・役割・共有を外す）を、どの人も名前の下の行にそろえました。</td></tr>
     <tr><td>v1.49.7<br><span class="meta">11/3</span></td><td>保存されている予定の終了の時刻が開始より前（または同じ）のときは、その終了を使わず、開始から1時間の予定として出し、カレンダーにも入れるようにしました。</td></tr>
     <tr><td>v1.49.6<br><span class="meta">11/3</span></td><td>立会・現地調査などの「日程を決める」に、開始・終了の時刻を入れられるようにしました。時刻を入れると、Googleカレンダーにその時間の予定で入ります（入れないときは今までどおり終日）。社長の社員一覧の「最終同期」は、社員の記録を読み込んだときの値を出すようにしました（管理者向け）。</td></tr>

diff --git a/shared-receipts.js b/shared-receipts.js
@@ -9,8 +9,10 @@
   if(context.admin)allowed=(context.staff||[]).filter(s=>!s.removed);
   else{
    const list=context.viewList||[],me=list.find(s=>str(s.email).toLowerCase()===str(context.email).toLowerCase());
-   if(!me||me.removed||!['全社','GM'].includes(me.role)||me.role==='GM'&&!me.gmCo)return [];
-   allowed=list.filter(s=>!s.removed&&(s.sheetId===me.sheetId||me.role==='全社'||companyList(s).includes(me.gmCo)));
+   /* v1.50.0 経理は担当の会社（charge）に所属する人の分を見る。業務管理は見ない */
+   const charge=companyList({company:me&&me.charge});
+   if(!me||me.removed||!['全社','GM','経理'].includes(me.role)||me.role==='GM'&&!me.gmCo||me.role==='経理'&&!charge.length)return [];
+   allowed=list.filter(s=>!s.removed&&(s.sheetId===me.sheetId||me.role==='全社'||(me.role==='経理'?(cs=>cs.length===1&&charge.includes(cs[0]))(companyList(s)):companyList(s).includes(me.gmCo))));
   }
   const ids=new Set(allowed.map(s=>str(s.sheetId)).filter(Boolean)),seen=new Set();
   return (Array.isArray(data)?data:[]).filter(x=>{const id=str(x?.s?.sheetId);if(!ids.has(id)||seen.has(id))return false;seen.add(id);return true;});

diff --git a/README.md b/README.md
@@ -242,18 +242,23 @@ GMが見たり指示を出したりできる相手は、GMと同じ1社だけに
 
 社員が自分の端末で「予定の共有」を押すと、メインのGoogleカレンダーを、その人の予定を見てよい人に「見るだけ」で共有します。
 
-- 共有先は社長の端末で社員一覧の役割から決めます（社長・全社・経理・業務管理・その人を見られるGM。記録を見てよいかの判定 `canSee` と同じ）。アドレスはコードに書きません。社員を追加したとき・会社・役割を保存したとき（`adminShareSync` の最後）と、「管理（社長用）」の「予定の共有先を書く」で、各社員の記録シートのタブ「予定の共有先」（氏名・Gmail・役割）に書いて読み戻します。社員の端末はこのタブを読むだけです（社員は社員一覧を読めないため）。
+- 共有先は社長の端末で社員一覧の役割から決めます（社長・全社・その人を見られるGM・担当の会社の経理と業務管理。記録を見てよいかの判定 `canSee` と同じ）。アドレスはコードに書きません。社員を追加したとき・会社・役割を保存したとき（`adminShareSync` の最後）と、「管理（社長用）」の「予定の共有先を書く」で、各社員の記録シートのタブ「予定の共有先」（氏名・Gmail・役割）に書いて読み戻します。社員の端末はこのタブを読むだけです（社員は社員一覧を読めないため）。
 - ボタンは、まず共有する相手（名前・Gmail・見るだけ）を出し、本人が「この人たちに共有する」を押したときだけ、追加の許可 `https://www.googleapis.com/auth/calendar.acls` を求めます（起動時・ふだんの同期では求めません）。許可が出なければ共有しません。
 - `calendars/primary/acl` を読み、reader 以上（reader・writer・owner）ですでに共有している相手には何もしません。足りない相手だけ `acl.insert`（role=reader、`sendNotifications=true`）で足します。外したり権限を下げたりはしません。メイン以外のカレンダーには触りません。社長の端末には出しません。
 - 結果（共有した／共有済み／失敗と理由）を画面に出し、端末（`D().calShare`）と本人の記録シートのタブ「予定の共有の記録」（Gmail・氏名・役割・結果・日時。HUBの共有先だけ。ほかの共有は書きません）に残します。
 - 社長の社員一覧に、予定の共有の状況（済／まだ：○○／まだHUBで共有していません／要確認）を出します。今の共有先ではない人に共有が残っているときは要確認で、自動では外しません。
 - 初期設定のカレンダーの共有は、記録シートが要るので「最初の同期」のあとに移しました。ボタンが使えないとき（共有先がまだ書かれていない・許可が出ない）は、ブラウザでの手順と「共有しました」を出します。
 
-役割に「経理」「業務管理」を足しました（`ROLES`）。全社と同じく3社すべての社員の記録を見るだけで見られ（`wideRole`）、予定の共有先にも全員分入ります。タスクリクエスト（指示箱の編集者）は全社とGMだけです（`canOrder`）。表示は「経理：3社すべて」「業務管理：3社すべて」。領収書の見え方（会社別のGM・経理）は変えていません（領収書は別途）。
+役割に「経理」「業務管理」を足しました（`ROLES`）。人ごとに「担当の会社」（社員一覧・見る人用一覧の新しい列「担当の会社」、例：`CP,CPY`）を選びます。
+
+- 見られるのは、担当の会社だけに所属する社員の記録（案件・ToDo・予定など。見るだけ）です。その会社のGMも含みます。よその会社の社員と、複数の会社に所属する人は見ません（`chargeTarget`）。予定の共有先も、担当の会社の社員の分だけです。
+- タスクリクエスト（指示箱の編集者）は全社とGMだけです（`canOrder`）。
+- 表示は「経理：CP・CPY」「業務管理：3社すべて」の形です。「会社・役割」で、経理・業務管理を選んで担当の会社を選ばないと、保存しません。
+- 領収書：経理は、担当の会社の社員の立替・領収書を見られます（`shared-receipts.js`）。業務管理は、ほかの人の立替・領収書を見ません。会社の動きの読み込みで、ほかの人の「立替」タブを読まず（`noReceipts`）、前回の読み込みの内容からも消します。一般社員は今までどおりです。**ただし、見る人には記録シート全体を閲覧者で共有しているので、Googleスプレッドシートを直接開くと「立替」タブも見えます**（HUBの画面に出さないだけです）。
 
 **Google Cloud の設定（トシさん）**：Google Auth Platform →「データアクセス」で、スコープ `https://www.googleapis.com/auth/calendar.acls` を足してください（手順は manual-admin の「はじめに1回：Google Cloud にカレンダーの共有の許可を足す」）。足していないと、ボタンを押したときに「共有の権限がありません」と出て共有しません。
 
-**古い版の端末の注意**：古い版は「経理」「業務管理」を知らないので「社員」として読み込みます。古い版の社長の端末で会社・役割を保存すると、役割が「社員」に戻り、見る人の共有も外れます。経理・業務管理を初めて入れる前に、社長の端末（スマホ・PCの両方）と、全社・GMの人の端末を最新の版にしてください。社員一覧の列は足していません。
+**列を足したことの注意**：社員一覧（「社員」タブ）と見る人用一覧（「一覧」タブ）の最後に、列「担当の会社」を足しました。古い版の端末は、この列と「経理」「業務管理」を知りません。古い版の社長の端末で社員を追加したり、会社・役割を保存したりすると、一覧を全部書き直すので「担当の会社」の列が消え、役割が「社員」に戻り、見る人の共有も外れます。手順：①社長の端末（スマホ・PCの両方）を v1.50.0 にする ②全社・GMの人の端末も v1.50.0 にしてもらう ③そのあとで、経理・業務管理の人の役割と担当の会社を保存する。
 
 試験：`tests/calendar-share-button-browser.cjs`（役割の判定、共有先の計算、確かめるまで触らない、足りない相手だけ reader で足す・権限を下げない・2回目は何もしない、許可を断ったとき、共有先がない・1人だけ失敗したとき、社長の端末に出さない、共有先の書き込みと社員一覧の済・まだ・要確認）。
 

diff --git a/docs/引継ぎ.md b/docs/引継ぎ.md
@@ -13,8 +13,8 @@
 
 ## v1.50.0 予定の共有ボタン・役割「経理」「業務管理」
 
-- 役割：`ROLES` に「経理」「業務管理」。`wideRole`（全社・経理・業務管理）は3社すべてを見るだけ（`isViewer`・`canSee`）。指示箱を出す・指示箱の編集者は `canOrder`（全社とGMだけ）。`adminShareSync` の指示箱の付与、`boxIssuers`・`canIssueTo`・`boxOrderAdd/Cancel`・`sentRequests`・会社の動きの指示箱の読み込みは `canOrder`。`roleLabel` は「経理：3社すべて」。社員一覧・見る人用一覧の列は変えていない（「役割」列の値が増えただけ）。古い版は未知の役割を「社員」として読むので、全管理端末を更新してから役割を入れる。
-- 共有先：`calShareTargets(s,staff)`＝社長（`ADMIN_ACCOUNT`）＋`canSee(v,s)` の見る人。社長の端末が `calShareTargetsWrite` で各社員の記録シートのタブ「予定の共有先」（`CALSHARE_COLS`）に書いて読み戻す。`adminShareSync` の最後（失敗しても役割の保存は止めず、警告）と、管理の「予定の共有先を書く」（`dcaltargets`）。
+- 役割：`ROLES` に「経理」「業務管理」（`CHARGE_ROLES`）。人ごとの担当の会社 `charge`（社員一覧 `STAFF_COLS`・見る人用一覧 `VIEW_COLS` の最後の列「担当の会社」。`chargeNorm` で CP,CPY,AT の順にそろえる）。`chargeTarget`＝担当の会社だけに所属する人（GMも含む。複数会社は対象外）。`canSee` は 全社→全員、経理・業務管理→`chargeTarget`、GM→`gmTarget`。指示箱は `canOrder`（全社とGM）。`roleLabel` は「経理：CP・CPY」。業務管理は `noReceipts`：`corpLoad` でほかの人の「立替」を読まない・`corpKeepLoad` で前回の `rc` を消す・`shared-receipts.js` で対象外。経理は `shared-receipts.js` で担当の会社の人の分。記録シート自体は閲覧者共有なので、スプレッドシートを直接開けば立替タブは見える（HUBの表示だけの制限）。古い版は列と役割を知らず、全体を書き直すと列が消える → 全管理端末を更新してから役割を入れる。
+- 共有先：`calShareTargets(s,staff)`＝社長（`ADMIN_ACCOUNT`）＋`canSee(v,s)` の見る人（担当の会社の経理・業務管理を含む）。社長の端末が `calShareTargetsWrite` で各社員の記録シートのタブ「予定の共有先」（`CALSHARE_COLS`）に書いて読み戻す。`adminShareSync` の最後（失敗しても役割の保存は止めず、警告）と、管理の「予定の共有先を書く」（`dcaltargets`）。
 - 本人の端末：`calShareBox()`（初期設定の `calshare` と、数字の「予定の共有」`calShareSettings()`）。`csload`→`calShareRead`（自分の記録シート）→確認一覧→`csrun`→`gAuthorize(true,ACL_SCOPE)`（追加のスコープ。許可に含まれなければ `denied`）→`calShareApply`（`calendars/primary/acl` を読んで、reader 以上なら何もしない。足りない相手だけ POST role=reader、`sendNotifications=true`）→`calShareRecord`（タブ「予定の共有の記録」`CALREC_COLS`。前の記録は残す）→`D().calShare`。社長の端末（`calShareHidden`）には出さない。
 - 社長の社員一覧：`corpLoad` で「予定の共有の記録」を読み（`calRec`）、`staffCalText` で済・まだ・要確認。要確認は自動で外さない。
 - 初期設定：`calshare` は `sync` のあと（共有先を記録シートから読むため）。ボタンが使えないときの `calShareManual`（ブラウザでの手順＋`obcalshare`）。
